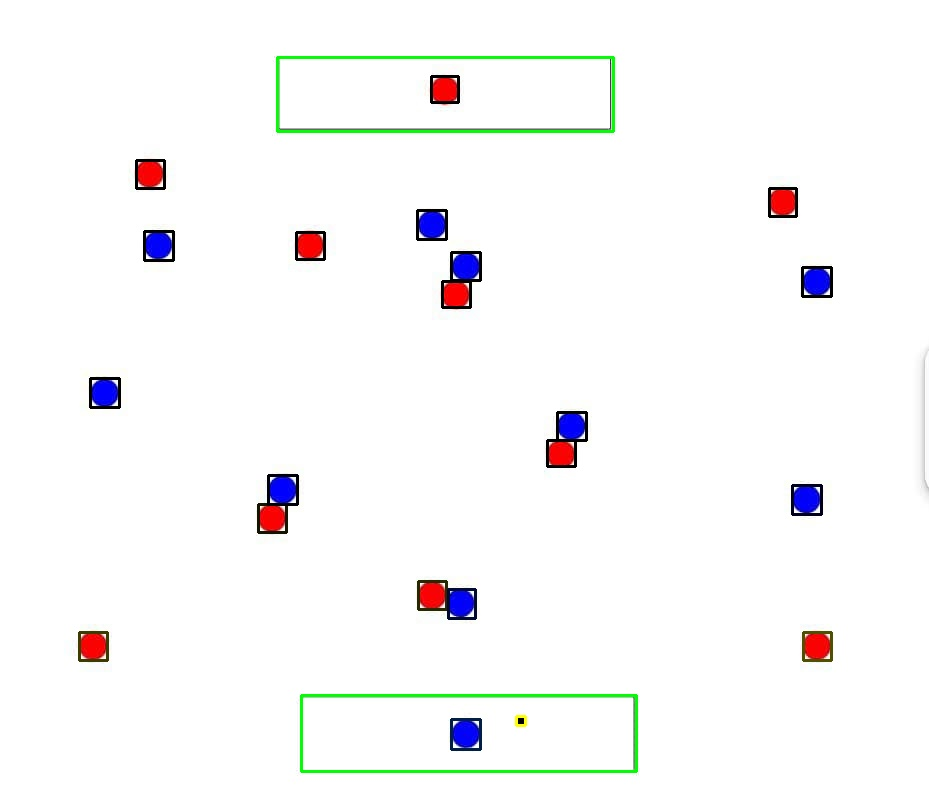
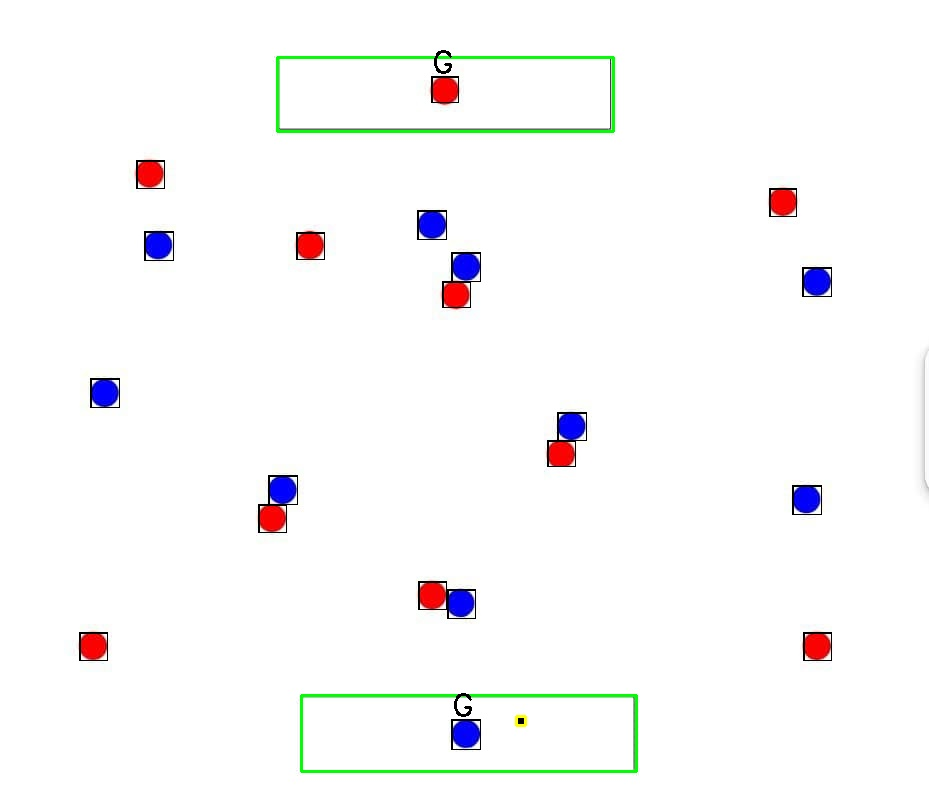
detecterGardien

diff --git a/src/detecteur/JoueurDetecteur.java b/src/detecteur/JoueurDetecteur.java
@@ -11,9 +11,37 @@ import org.opencv.core.Rect;
 import org.opencv.core.Scalar;
 import org.opencv.imgproc.Imgproc;
 
+import elements.But;
 import elements.Joueur;
 
 public class JoueurDetecteur {
+    public static Joueur detecterGardien(Mat image, Scalar limiteInferieure, Scalar limiteSuperieure, But[] buts) {
+        Joueur[] joueurs = detecterJoueurMemeEquipe(image, limiteInferieure, limiteSuperieure);
+
+        for (Joueur joueur : joueurs) {
+            // Rect rectJoueur = joueur.getDimension();
+            
+            for (But but : buts) {
+                Rect rectBut = but.getDimension(); 
+                
+                if (rectBut.contains(joueur.getPosition())) {
+                    joueur.setStatut("G");
+                    joueur.annoter(image);
+                    return joueur; 
+                }
+    
+                // Vérification supplémentaire pour s'assurer que tout ou une grande partie du joueur est dans le but
+                // if (rectBut.intersects(rectJoueur)) {
+                //     joueur.setStatut("G");
+                //     return joueur; 
+                // }
+            }
+        }
+    
+        System.err.println("Aucun gardien détecter");
+        return null;
+    }
+
     public static Joueur[] detecterJoueurMemeEquipe(Mat image, Scalar limiteInferieure, Scalar limiteSuperieure) {
         if (image == null || image.empty()) {
             System.err.println("Erreur : Impossible de charger l'image.");
@@ -52,13 +80,10 @@ public class JoueurDetecteur {
                         rectangleEnglobant.y + rectangleEnglobant.height / 2.0
                 );
 
-                // Définir une couleur pour dessiner le rectangle
-                Scalar couleurRectangle = ajusterCouleur(limiteInferieure, -20);
-
                 try {
                     // Créer un objet Joueur avec la position et les dimensions détectées
                     Joueur joueur = new Joueur(positionCentrale, rectangleEnglobant);
-                    joueur.encadrer(image, couleurRectangle, 2); // Rectangle épaisseur 2px
+                    joueur.encadrer(image, new Scalar(0), 1); // Rectangle épaisseur 2px
                     listeJoueurs.add(joueur);
                 } catch (Exception e) {
                     e.printStackTrace();
@@ -67,13 +92,5 @@ public class JoueurDetecteur {
         }
 
         return listeJoueurs.toArray(new Joueur[0]);
-    }
-
-    private static Scalar ajusterCouleur(Scalar couleur, int delta) {
-        double[] valeurs = couleur.val;
-        for (int i = 0; i < valeurs.length; i++) {
-            valeurs[i] = Math.min(Math.max(valeurs[i] + delta, 0), 255);
-        }
-        return new Scalar(valeurs);
     }
 }

diff --git a/src/elements/Joueur.java b/src/elements/Joueur.java
@@ -37,4 +37,16 @@ public class Joueur extends Entite {
         Rect rectangleEnglobant = Imgproc.boundingRect(contour);
         Imgproc.rectangle(image, rectangleEnglobant, couleurContour, 2);
     }
+
+    public void annoter(Mat image) {
+        if (image == null || image.empty()) {
+            throw new IllegalArgumentException("L'image ne peut pas être nulle ou vide.");
+        }
+    
+        Point positionTexte = new Point(this.getDimension().x, this.getDimension().y - 5); 
+        String texte = this.getStatut();
+    
+        Imgproc.putText(image, texte, positionTexte, Imgproc.FONT_HERSHEY_SIMPLEX, 1, new Scalar(0, 0, 0), 2);
+    }
+    
 }

diff --git a/src/App.java b/src/App.java
@@ -20,7 +20,9 @@ public class App {
         Equipe equipe1 = new Equipe(image, new Scalar(0, 100, 100), new Scalar(10, 255, 255));
         Equipe equipe2 = new Equipe(image, new Scalar(90, 50, 0), new Scalar(130, 255, 255));
 
-        System.out.println(ballon.estBut(buts));
+        Joueur gardien1 = equipe1.getGardien(image, buts);
+        Joueur gardien2 = equipe2.getGardien(image, buts);
+
 
         Imgcodecs.imwrite("./Image_Modifiee.jpg", image);
 

diff --git a/src/elements/Equipe.java b/src/elements/Equipe.java
@@ -55,4 +55,8 @@ public class Equipe {
             throw new Exception("Aucun joueur");
         this.joueurs = joueurs;
     }
+
+    public Joueur getGardien(Mat image, But[] buts) {
+        return JoueurDetecteur.detecterGardien(image, this.getLimiteInferieureCouleur(), this.getLimiteSuperieureCouleur(), buts);
+    }
 }
